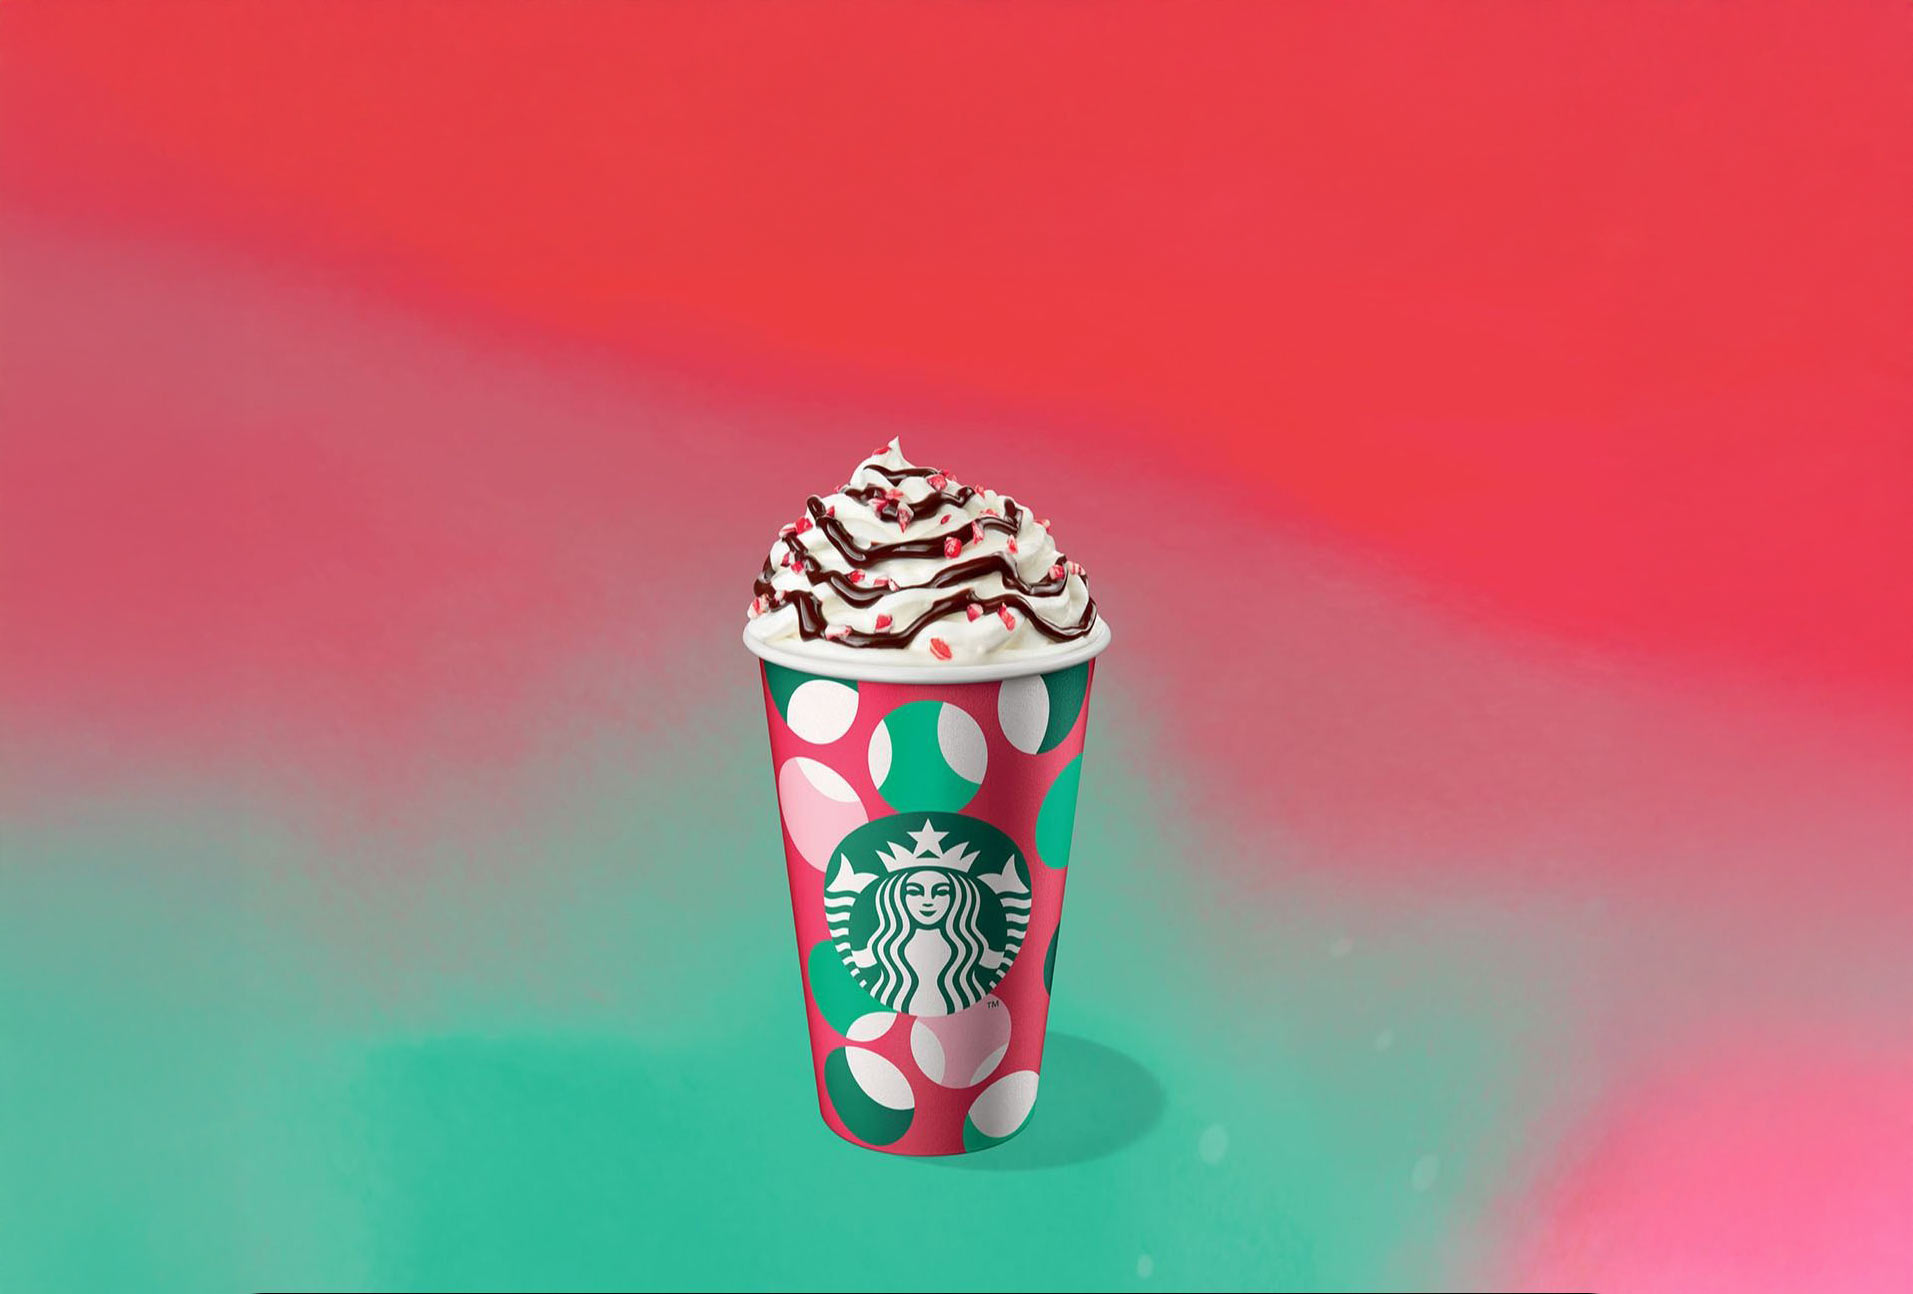
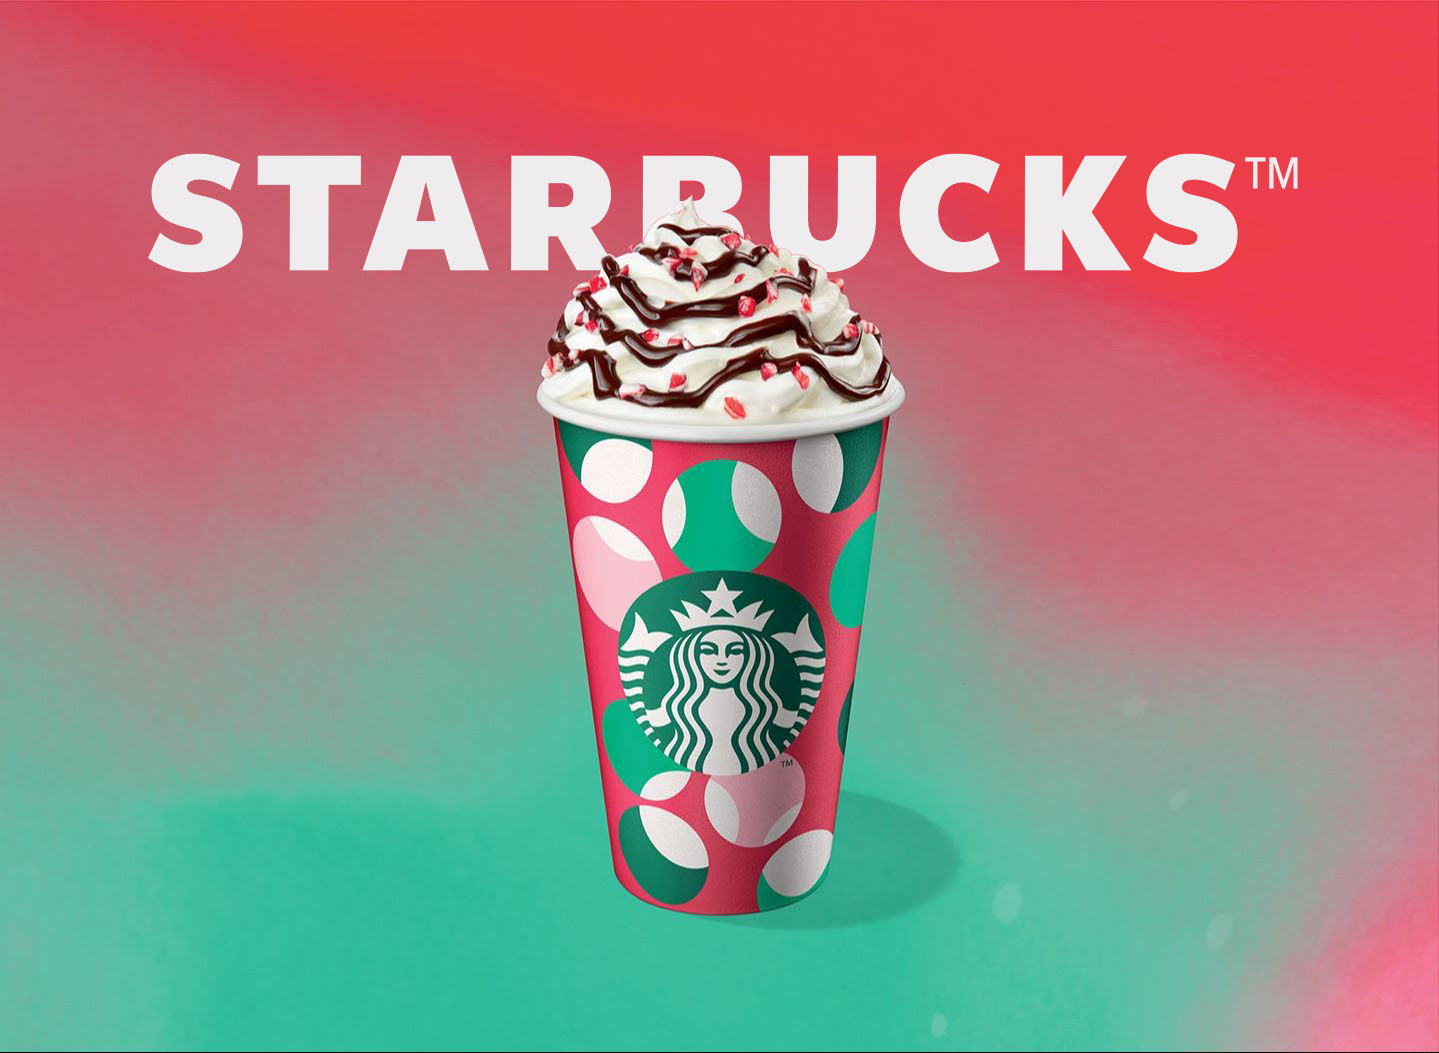
header image replaced /header text removed

diff --git a/index.html b/index.html
@@ -419,7 +419,7 @@
     </header>
 
     <div class="hero">
-        <span class="starbucks-text">Starbucks</span>'a Hoşgeldiniz.
+        
     </div>
 
     <div class="content">
